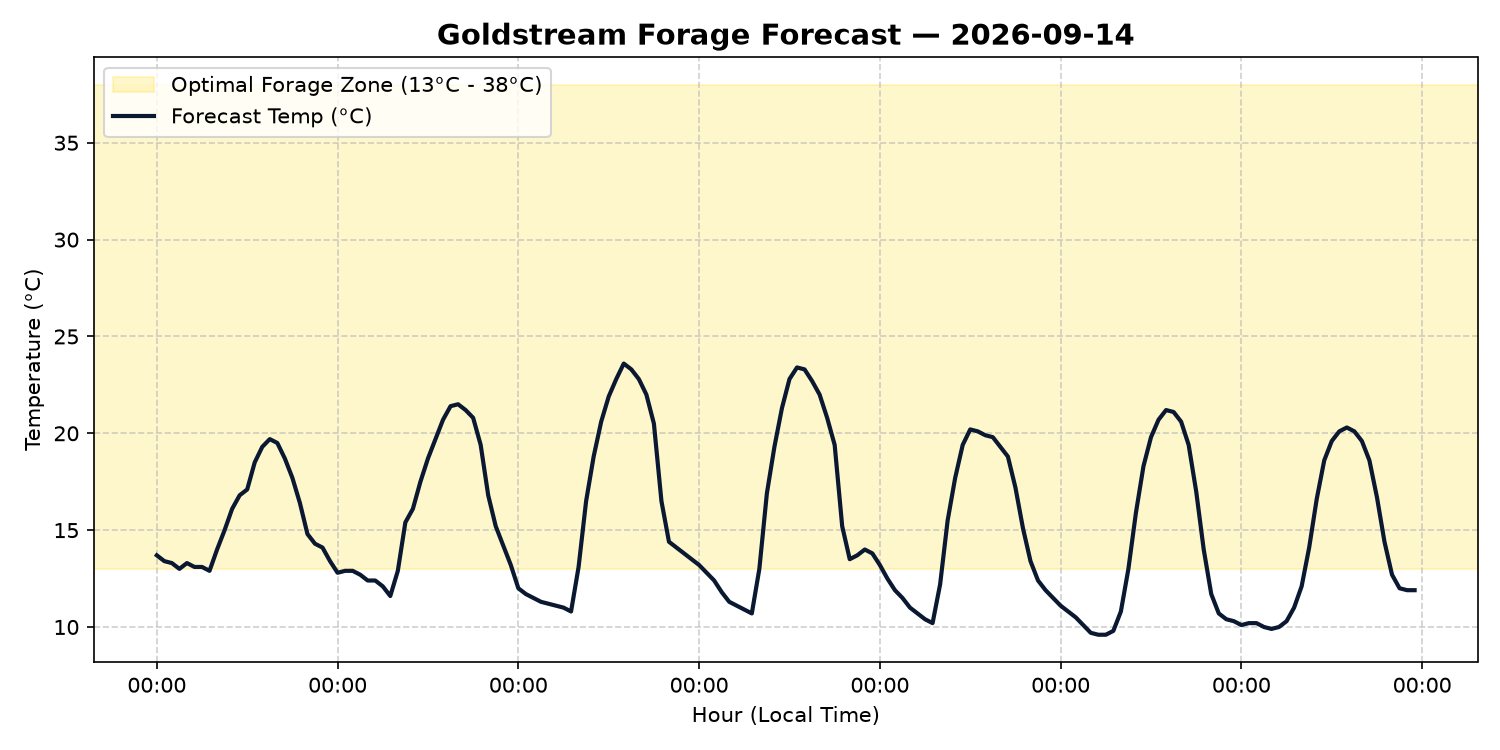
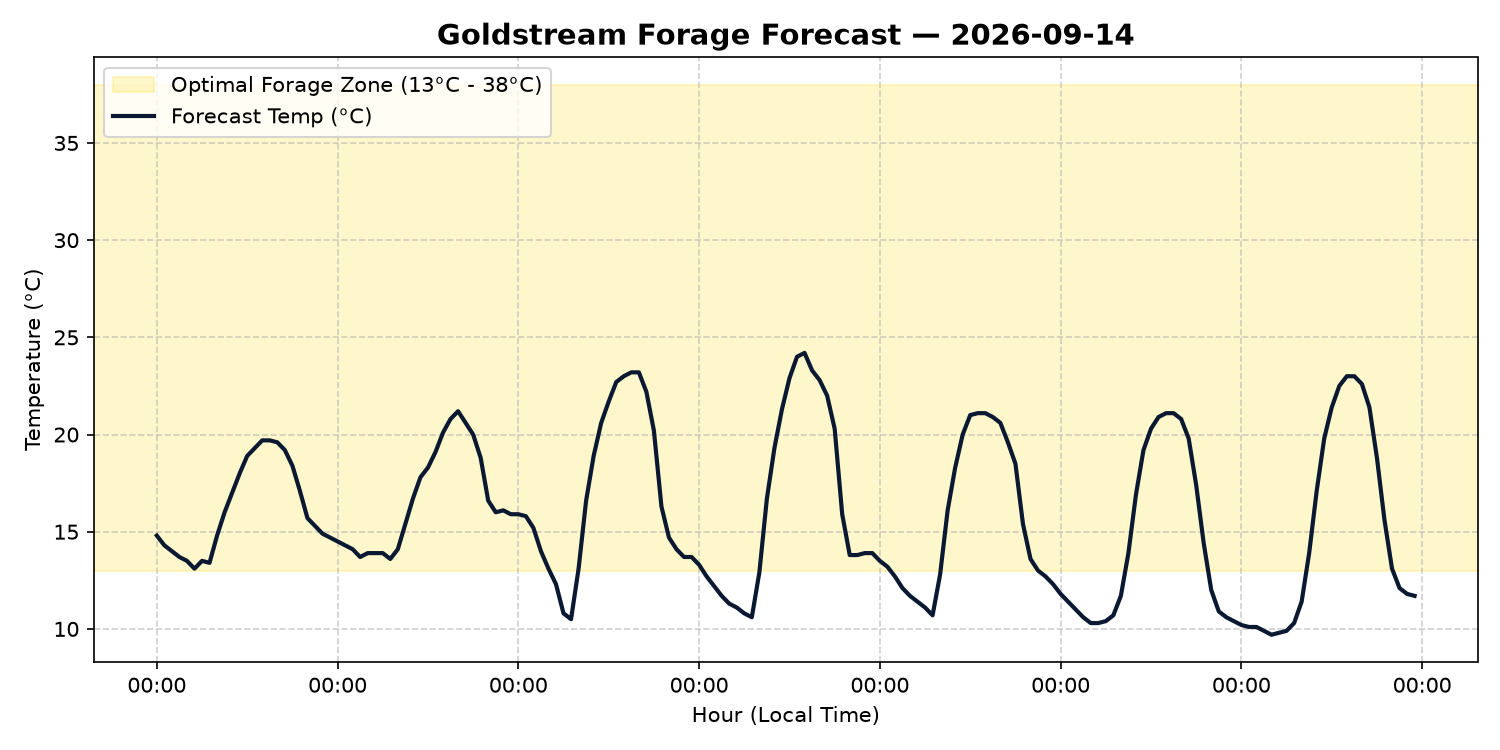
forage: generated forecast map and report

diff --git a/reports/forage_log.md b/reports/forage_log.md
@@ -4,9 +4,9 @@
 **Location:** Goldstream, Langford BC (48.48, -123.55)
 
 ## Analysis
-- **Peak Temp:** 23.6°C
-- **Min Temp:** 9.6°C
-- **Hours in Optimal Zone:** 106 hours
+- **Peak Temp:** 24.2°C
+- **Min Temp:** 9.7°C
+- **Hours in Optimal Zone:** 123 hours
 
 ## Methodology
 Data sourced from Open-Meteo API. Forage window defined as 13°C–38°C for *Apis mellifera* flight activity.
